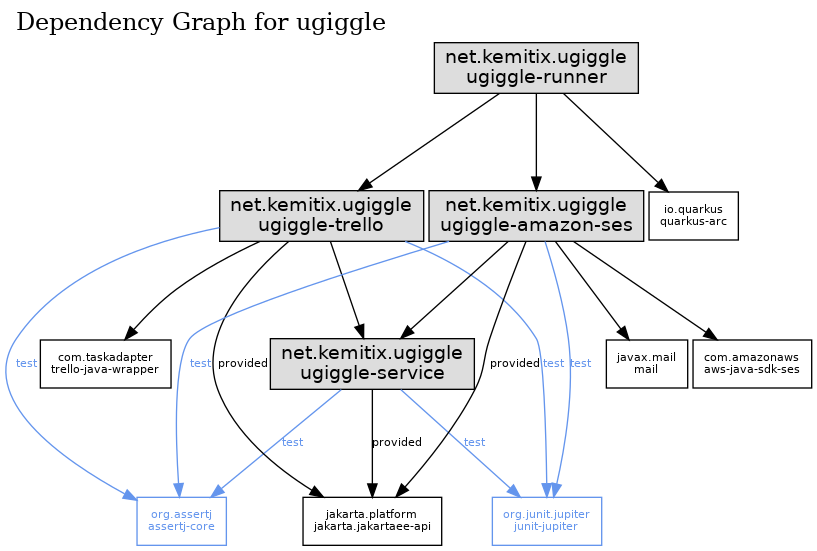
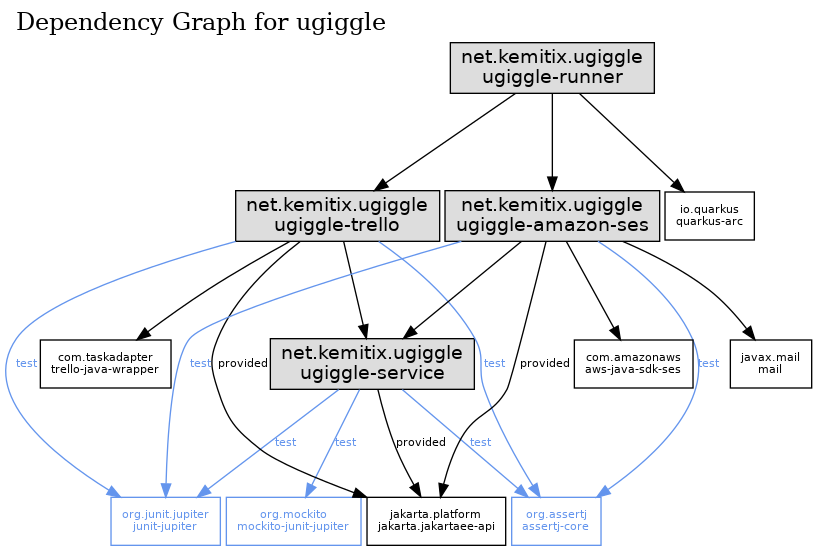
ODT Converter - step 1 - add Conversion Service (#14)
* parent: make mockito-junit-jupiter 3.3.3 available

* service: add test dependency mockito-junit-jupiter

* service: add ConversionService

* service: use ConversionService

diff --git a/service/src/test/java/net/kemitix/ugiggle/service/ConversionServiceTest.java b/service/src/test/java/net/kemitix/ugiggle/service/ConversionServiceTest.java
@@ -1,0 +1,50 @@
+package net.kemitix.ugiggle.service;
+
+import org.assertj.core.api.WithAssertions;
+import org.junit.jupiter.api.BeforeAll;
+import org.junit.jupiter.api.BeforeEach;
+import org.junit.jupiter.api.DisplayName;
+import org.junit.jupiter.api.Test;
+import org.junit.jupiter.api.extension.ExtendWith;
+import org.mockito.Mock;
+import org.mockito.junit.jupiter.MockitoExtension;
+
+import javax.enterprise.inject.Instance;
+
+import java.util.stream.Stream;
+
+import static org.mockito.BDDMockito.given;
+
+@ExtendWith(MockitoExtension.class)
+public class ConversionServiceTest
+        implements WithAssertions {
+
+    private final ConversionService service = new ConversionService();
+
+    private final Instance<AttachmentConverter> converters;
+    private final Attachment attachment;
+
+    public ConversionServiceTest(
+            @Mock Instance<AttachmentConverter> converters,
+            @Mock Attachment attachment
+    ) {
+        this.converters = converters;
+        this.attachment = attachment;
+    }
+
+    @BeforeEach
+    public void setUp() {
+        service.attachmentConverters = converters;
+    }
+
+    @Test
+    @DisplayName("When there are no converters returns the original attachment")
+    public void whenNoConvertersReturnOriginal() {
+        //given
+        given(converters.stream()).willReturn(Stream.empty());
+        //when
+        Attachment result = service.convert(attachment);
+        //then
+        assertThat(result).isSameAs(attachment);
+    }
+}

diff --git a/service/src/main/java/net/kemitix/ugiggle/service/SendReadingListService.java b/service/src/main/java/net/kemitix/ugiggle/service/SendReadingListService.java
@@ -8,24 +8,17 @@ import java.io.IOException;
 @ApplicationScoped
 public class SendReadingListService {
 
-    private ReadingListService readingListService;
-    private EmailService emailService;
-
-    public SendReadingListService() {
-    }
-
     @Inject
-    public SendReadingListService(
-            ReadingListService readingListService,
-            EmailService emailService
-    ) {
-        this.readingListService = readingListService;
-        this.emailService = emailService;
-    }
+    ReadingListService readingListService;
+    @Inject
+    EmailService emailService;
+    @Inject
+    ConversionService conversionService;
 
     public void run(String[] args) {
         readingListService.getReadingList()
                 .flatMap(Submission::findAttachments)
+                .map(conversionService::convert)
                 .forEach(this::sendEmail);
     }
 

diff --git a/service/src/main/java/net/kemitix/ugiggle/service/ConversionService.java b/service/src/main/java/net/kemitix/ugiggle/service/ConversionService.java
@@ -1,0 +1,21 @@
+package net.kemitix.ugiggle.service;
+
+import javax.enterprise.context.ApplicationScoped;
+import javax.enterprise.inject.Instance;
+import javax.inject.Inject;
+
+@ApplicationScoped
+public class ConversionService {
+
+    @Inject
+    Instance<AttachmentConverter> attachmentConverters;
+
+    public Attachment convert(Attachment attachment) {
+        return attachmentConverters.stream()
+                .filter(converter -> converter.canHandle(attachment))
+                .findFirst()
+                .flatMap(converter -> converter.convert(attachment))
+                .orElse(attachment);
+    }
+
+}

diff --git a/service/src/main/java/net/kemitix/ugiggle/service/AttachmentConverter.java b/service/src/main/java/net/kemitix/ugiggle/service/AttachmentConverter.java
@@ -1,0 +1,11 @@
+package net.kemitix.ugiggle.service;
+
+import java.util.Optional;
+
+public interface AttachmentConverter {
+
+    boolean canHandle(Attachment attachment);
+
+    Optional<Attachment> convert(Attachment attachment);
+
+}
